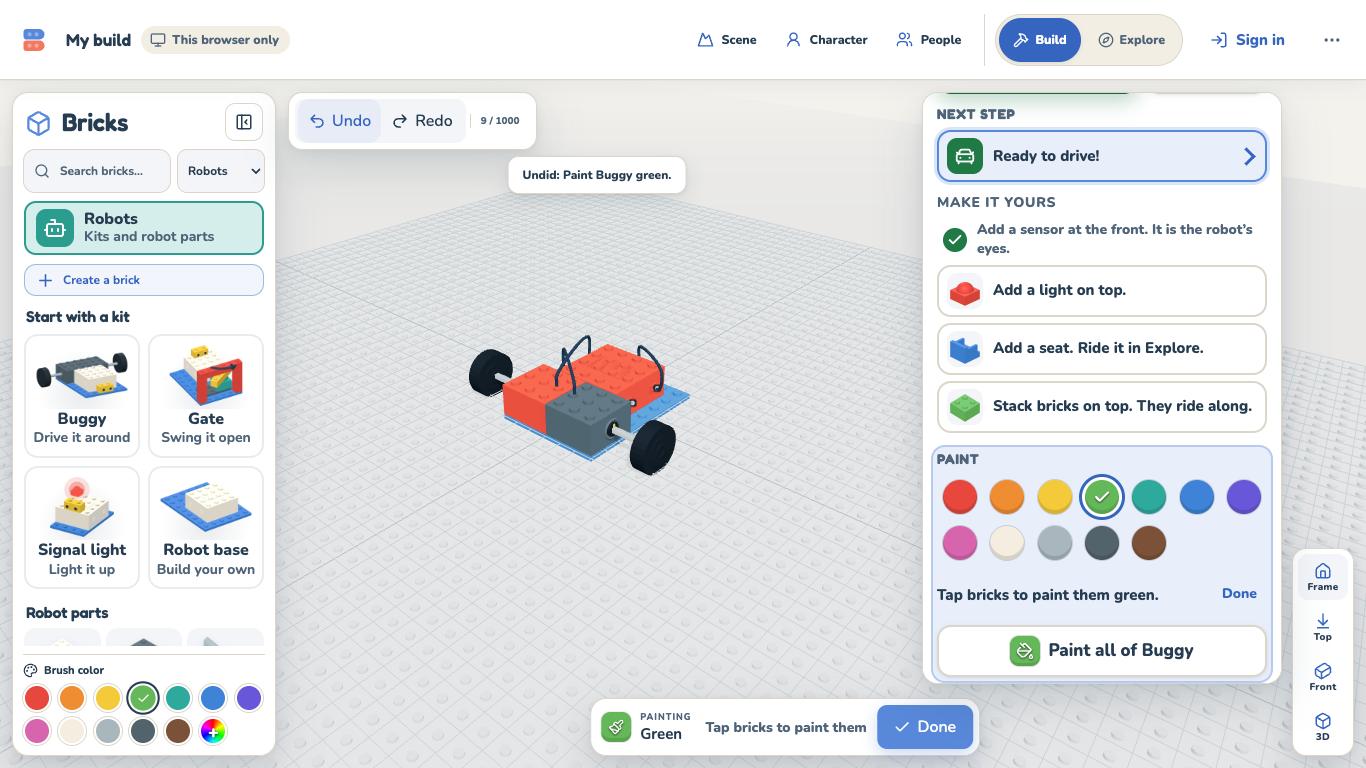
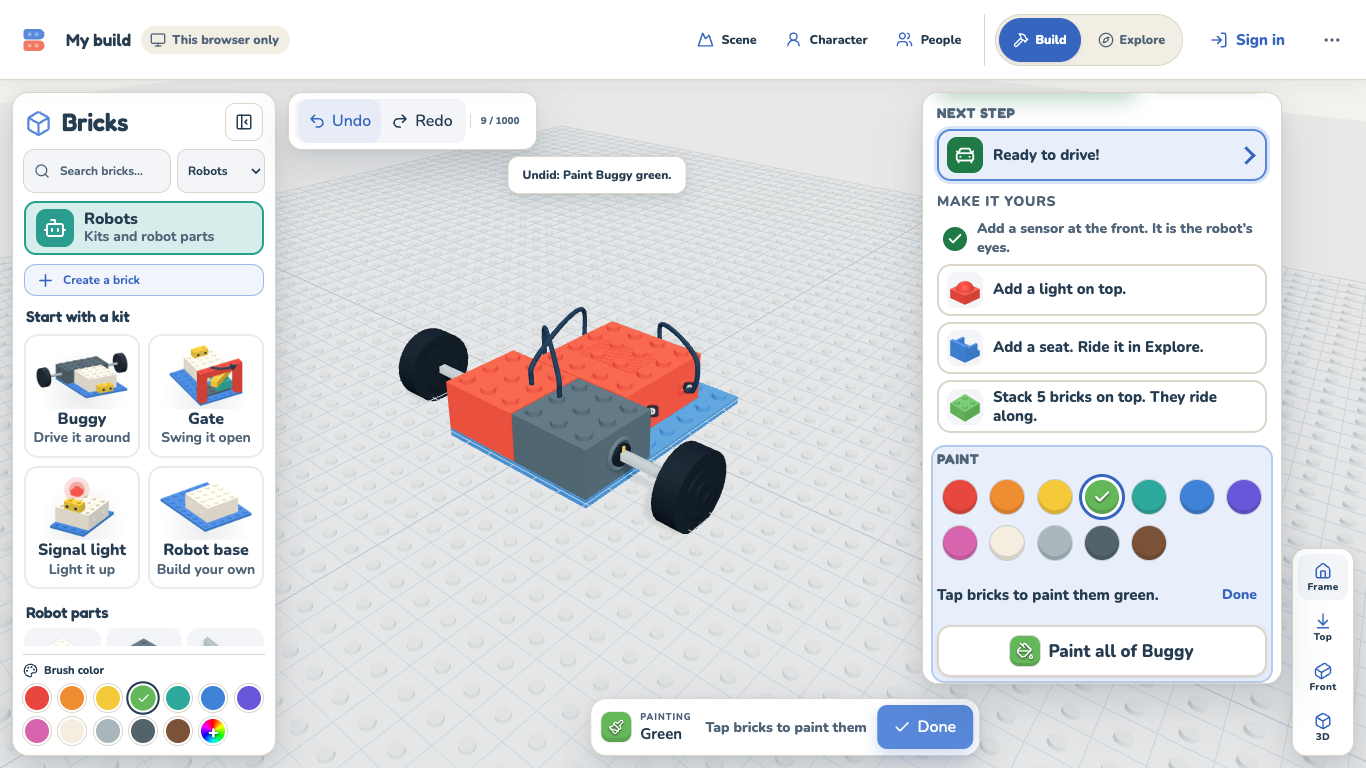
Kid-UX lane P follow-up: evidence (robotics-kid-paint 60/60 in real Chrome; the other eight harnesses green)
docs/qa/robotics-kid/paint: README gains the follow-up (the seat on the robot, nothing picked
after a kit, counted ideas, snug framing; one commit each), the new checks and shots, and the
harness table after the follow-up (kid-guide 116, kid-kits 39, cp2-wiring 55, kid-drive 71,
cp1 49, cp1-pointer 78, cp2-failures 70, cp2-code 51); results.json and screenshots rerun.

diff --git a/docs/qa/robotics-kid/paint/README.md b/docs/qa/robotics-kid/paint/README.md
@@ -11,7 +11,25 @@ a brick is the studio's own world-to-screen answer (`window.__robotics.project`,
 the brick's top that nothing stands on: the aiming a student does by eye. After each step the harness reads
 back the document (brick colours, the history) and what the page shows. `results.json` has every check.
 
-## Result: 50 of 50 checks pass
+## Follow-up after novice round 1 (Ava, 8, at 1024×768)
+
+Four fixes, one commit each, on the same branch after it was merged into `claude/robotics-kid-int`:
+
+| # | What Ava hit | Fix | Commit |
+| --- | --- | --- | --- |
+| 1 | **Major.** The seat idea's ghost sat low at the front by the sensor; Place dropped it on the ground; nothing ticked, nothing said. | An idea's light, seat and stacked bricks now come **already on the robot's highest free spot where they join it** (nearest the middle; `guide/onRobot.ts` asks the model with the part added). A seat or light from an idea that lands on no robot is **taken off the plate again** (no history left), set back on top, and a line says *The seat goes on Buggy. It is back on top: press Place.* With no room, it is put down and the line says so. Lane W's generic "not on the robot" line and fix are not duplicated. | `3be8422` |
+| 2 | **Minor.** A kit stayed picked after it was placed: the strip's Color said *Color all 9 bricks* and painted the tyres; a click on a wheel did nothing until she clicked the floor. | **Nothing stays picked** after a kit lands. The next click picks just the part. Why this rather than "the next click picks one part": that alone would still leave Color painting all nine. The panel still shows the new robot (the newest robot touched), one Undo removes the kit, the Paint row's *Paint all* paints it without its tyres, and a box drawn around the kit picks all of it for Rotate. | `76f67f3` |
+| 3 | **Minor.** "Stack bricks on top" ticked after the first brick. | It asks for five and counts: *Stack 5 bricks on top · 2 of 5*. After the first four ideas, *Build it taller · 6 of 10*. | `23082b7` |
+| 4 | **Minor.** At 1024×768 the car was drawn about 130 px wide in the 364 px gap between the drawer and the panel. | A placed kit, and the robot on the way back from Drive / Try it / Code, is **framed snug**: same viewing side, the camera closer until its own bricks fill 70 % of the free area (`snugFrameDistance`). Real Chrome, a placed Buggy: **1024×768 206 px of 364** (was 130); 1366×768 353 of 646 (was 229); iPad landscape 292 of 524; iPad portrait 237 of 416; all inside the free area. | `d57b8ea` |
+
+New checks in `robotics-kid-paint.mjs`: **K** (nothing picked after a kit; the first click on a wheel picks the
+wheel; Color is for one brick), **S** (the seat's ghost on the robot's top; Place puts it on and the idea ticks;
+placed on bare ground it goes back on top with the line; Place then puts it on), **A6.counts** (*2 of 5*),
+**C.framed-big** (1024), **D.nothing-picked** (touch). Shots: `1366-00-kit-placed-wheel-picked.png`,
+`1366-09b-stack-idea-2-of-5.png`, `1366-16-seat-ghost-on-top.png`, `1366-17-seat-on-the-robot.png`,
+`1366-18-seat-back-on-top.png`, and the 1024 and iPad shots of the bigger framing.
+
+## Result: 60 of 60 checks pass (50 before the follow-up)
 
 - **Paint the way kids expect** (1366×768). A Buggy kit, then the Paint row: **one click on red** starts
   painting (the bar at the bottom says *Painting · Red · Tap bricks to paint them · Done*; the command strip
@@ -32,9 +50,9 @@ back the document (brick colours, the history) and what the page shows. `results
   the panel and the strip (11 of 11 bricks inside the free area); **back from Drive** the same for a Buggy.
 - **The Color popover is never hidden behind the panel**: at 1366×768, 1024×768, iPad portrait 820×1094 and
   iPad landscape 1180×820 their boxes do not overlap and the popover is fully on screen.
-- **iPad portrait by touch** (Sam's layout): the Buggy is framed beside the panel; with the new kit picked
-  a tap on green paints it (wheels keep theirs); orange, then a tap on the hub paints it; every control on
-  the part's card is at least 44 px (Turn and Remove 130 × 52); the name stays read-only after a tap on it.
+- **iPad portrait by touch** (Sam's layout): the Buggy is framed beside the panel; nothing is picked after the
+  kit lands; orange, then a tap on the hub paints it; every control on the part's card is at least 44 px (Turn
+  and Remove 130 × 52); the name stays read-only after a tap on it.
 - No console errors, no page errors.
 
 ## Painting two bricks
@@ -50,6 +68,7 @@ back the document (brick colours, the history) and what the page shows. `results
 
 | State | 1366×768 | 1024×768 / iPad |
 | --- | --- | --- |
+| A kit just placed, then a click on a wheel: just the wheel, Color for one brick | `1366-00-kit-placed-wheel-picked.png` | |
 | A Buggy and its Paint row | `1366-01-buggy-paint-row.png` | `1024-01-buggy-paint-row.png` |
 | Painting: the bar and the Paint row | `1366-02-painting-red.png` | `1024-02-painting.png`, `ipad-820-02-painting-by-touch.png` |
 | Two bricks painted | `1366-03-two-bricks-painted.png` | |
@@ -59,6 +78,8 @@ back the document (brick colours, the history) and what the page shows. `results
 | A motor's card, simple first | `1366-07-motor-card.png` | `1024-03-motor-card.png`, `ipad-820-03-motor-card-by-touch.png` |
 | Its More | `1366-08-motor-more.png` | `1024-04-motor-more.png` |
 | An idea placed once, flashing | `1366-09-idea-placed-once.png` | |
+| The stack idea counting: 2 of 5 | `1366-09b-stack-idea-2-of-5.png` | |
+| The seat idea: its ghost on the robot's top; placed on; back on top after a click on bare ground | `1366-16-seat-ghost-on-top.png`, `1366-17-seat-on-the-robot.png`, `1366-18-seat-back-on-top.png` | |
 | The Gate's motor test | `1366-10-gate-motor-test.png` | |
 | Then the Signal light's hub picked | `1366-11-signal-light-hub-picked.png` | |
 | Try it on the Gate, back to build (framed) | `1366-12-gate-try-it.png`, `1366-13-back-from-try-it-framed.png` | |
@@ -106,12 +127,12 @@ back the document (brick colours, the history) and what the page shows. `results
 5. **The Color popover** slides left until it clears any panel marked `data-popover-avoid` (the robot panel
    and card mark themselves); only where it cannot (a panel across the screen) the strip rises over the
    panel. Nothing is marked without the flag, so the studio's popover never moves there.
-6. **Back to build frames the robot** with three studs of ground around it in the part of the canvas the
-   drawer, the panel and the strip leave free, as a placed kit is framed (the scene measures the panels a
-   frame after they are back).
+6. **Back to build frames the robot** in the part of the canvas the drawer, the panel and the strip leave
+   free (the scene measures the panels a frame after they are back). Since follow-up 4 it is framed snug,
+   as a placed kit is: its own bricks fill 70 % of that area.
 7. **More ideas.** Once a rover's first four are done they give way to *You did all 4 ideas!* and **More
    ideas**: *Paint it your colors.* (starts painting), *Give it a name of your own.* (the cursor in the name
-   field), *Build it taller. Stack 5 bricks on it.*, *Make it stop at a wall. Try it in Code.* (opens Code on
+   field), *Build it taller · 6 of 10* (counted, follow-up 3), *Make it stop at a wall. Try it in Code.* (opens Code on
    the Stop before the wall starter, made once). A gate and a signal light, which had no ideas, get paint,
    name and their own Code idea (*Change how far it opens*, *Pick the light's color*). These stay tappable
    once done (a tick in front), so the list never ends empty-handed. Only ideas that work today: no
@@ -125,12 +146,12 @@ back the document (brick colours, the history) and what the page shows. `results
    (same powers and angles as before, no % or °); a swinging arm's row says *open* or *shut*, not degrees.
    A part picked scrolls the panel to its top; done painting, the panel goes back to its top.
 
-## The other harnesses (run against this branch; outputs kept out of their evidence folders)
+## The other harnesses (run against this branch after the follow-up; outputs kept out of their evidence folders)
 
 | Harness | Result | Changed for this lane (intended) |
 | --- | --- | --- |
-| `robotics-kid-guide.mjs` | 116/116 | More's toggle is *Plug in by itself*, *Drive forward*; Unplug is behind the part's More; the four ideas done give way to *You did all 4 ideas!* and more ideas; the panel's folds found by test id |
-| `robotics-kid-kits.mjs` | 38/38 | none |
+| `robotics-kid-guide.mjs` | 116/116 | More's toggle is *Plug in by itself*, *Drive forward*; Unplug is behind the part's More; the four ideas done give way to *You did all 4 ideas!* and more ideas (it stacks five bricks, follow-up 3); the panel's folds found by test id |
+| `robotics-kid-kits.mjs` | 39/39 | follow-up 2: nothing is picked after a kit lands (A.focused), a new A.box-picks-kit draws a box around it before Rotate; follow-up 4: A.framed expects a snug frame |
 | `robotics-cp2-wiring.mjs` | 55/55 | opens the part's More before reading ports, the cable and the code line; *Plug in by itself: On / Off* and its toast and label; *Spin*; two new checks for the simple-first hub and motor cards |
 | `robotics-kid-drive.mjs` | 71/71 | none |
 | `robotics-spike-cp1.mjs` | 49/49 | *Drive forward*, *Spin*, *Swing open*, *Shut*; the arm's row says *open* |
@@ -139,6 +160,12 @@ back the document (brick colours, the history) and what the page shows. `results
 | `robotics-cp2-code.mjs` | 51/51 | opens the part's More before Unplug, the hub's ports and a port chip |
 
 ## Unit tests
+
+Follow-up: `src/robotics/guide/onRobot.test.ts` (the seat's spot on a Buggy's hub, on a tower's top, a light,
+membership); `oneShot.test.tsx` (the seat armed on top; placed on bare ground it comes back; Place puts it on
+and the idea ticks); `kitPlacement.test.ts` (nothing picked after placing; picked again, Rotate turns it whole;
+a snug frame request); `nextSteps.test.ts` (the counted texts); `framing.test.ts` (`brickBox`, `snugFrameDistance`
+at 1024 × 768 beside a drawer and a panel); `robotFocus.test.tsx` (back to build asks for a snug frame).
 
 `src/robotics/paint/paint.test.tsx` (what "Paint all" paints, looks-painted, colour names; a chip starts
 painting, taps paint one Undo each with nothing selected, Paint all in one Undo, a picked brick painted by a
